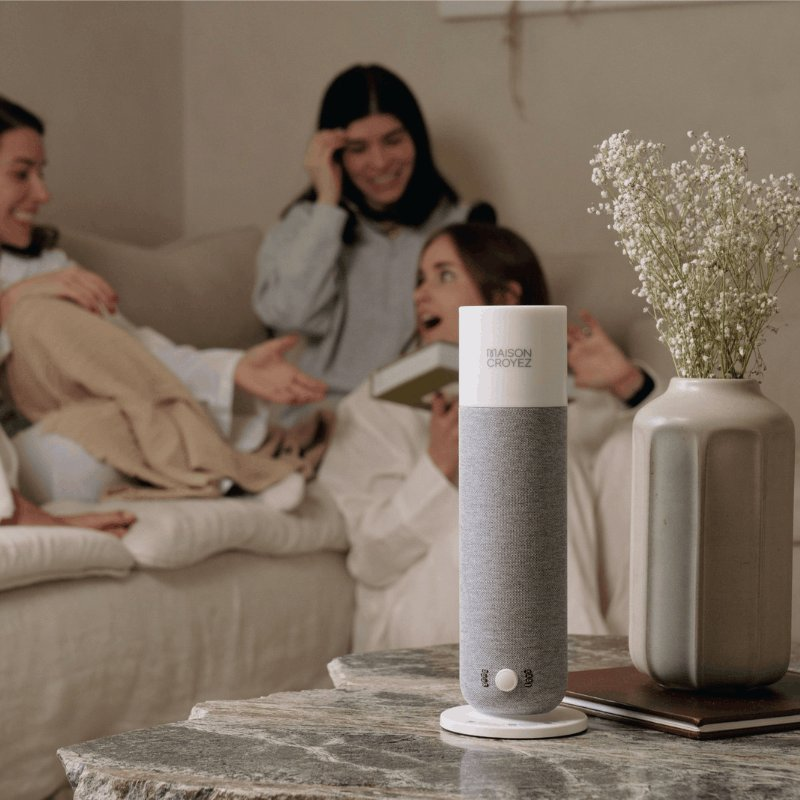
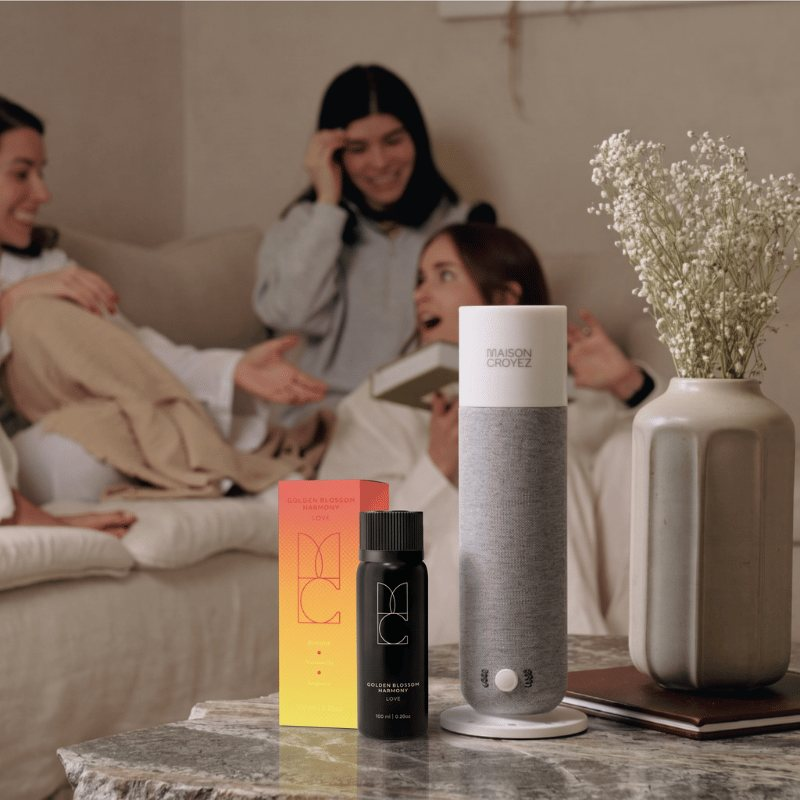
kits dk9v: new hero picture (diffuser + Golden Blossom bottle), check-list left padding that survives the ul reset
Owner's new main image (800 px JPEG + 720 px WebP poster). The how-it-works list's
left padding now uses !important because the page's own #root ul reset was zeroing it
on the live page.

Claude-Session: https://claude.ai/code/session_01Qt6jwbZYcUd6pzyfawb3Bj

Changed region(s): [[0.3438, 0.5938, 0.6562, 1.0], [0.75, 0.1875, 0.9375, 0.4688], [0.75, 0.1875, 0.7812, 0.2188]]

diff --git a/lp-factory/pages/diffuser-kits/mc-dk.css b/lp-factory/pages/diffuser-kits/mc-dk.css
@@ -1712,7 +1712,7 @@ h1 em{background:none;-webkit-background-clip:initial;background-clip:initial;co
 #root .tier.t9c3 .t9s-total small{font-family:'Outfit',sans-serif;font-weight:600;font-size:.58rem;letter-spacing:.06em;text-transform:uppercase;color:#5C4F46}
 #root .tier.t9c3 .t9s-total b{font-family:'Outfit',sans-serif;font-weight:800;font-size:1rem;color:#141414}
 @media (min-width:700px){#root .tier.t9c3 .t9s-each{font-size:.74rem}#root .tier.t9c3 .t9s-gift{font-size:.86rem}#root .tier.t9c3 .t9s-total b{font-size:1.15rem}#root .tier.t9c3 .t9s-total small{font-size:.62rem}}
-#root .t9s-how{list-style:none;margin:0 0 10px;padding:10px 14px 10px 18px;background:#FAF7F3;border:1px solid #EFE8E0;border-radius:12px;font-family:'Outfit',sans-serif;font-size:.74rem;line-height:1.35;color:#2A221E;display:grid;gap:5px}
+#root .t9s-how{list-style:none;margin:0 0 10px;padding:10px 14px 10px 20px;padding-left:20px !important;background:#FAF7F3;border:1px solid #EFE8E0;border-radius:12px;font-family:'Outfit',sans-serif;font-size:.74rem;line-height:1.35;color:#2A221E;display:grid;gap:5px}
 #root .t9s-how li{position:relative;padding-left:22px;margin:0} /* dk9t (owner): more room on the left of the green checks */
 #root .t9s-how li::before{content:"\2713";position:absolute;left:0;top:0;color:#1E7A46;font-weight:800}
-@media (min-width:700px){#root .t9s-how{font-size:.84rem;padding:12px 16px 12px 20px}}
+@media (min-width:700px){#root .t9s-how{font-size:.84rem;padding:12px 16px 12px 22px;padding-left:22px !important}}

diff --git a/lp-factory/pages/diffuser-kits/variants/dk9s-step1-scents/patch.py b/lp-factory/pages/diffuser-kits/variants/dk9s-step1-scents/patch.py
@@ -54,10 +54,10 @@ css += '''
 #root .tier.t9c3 .t9s-total small{font-family:'Outfit',sans-serif;font-weight:600;font-size:.58rem;letter-spacing:.06em;text-transform:uppercase;color:#5C4F46}
 #root .tier.t9c3 .t9s-total b{font-family:'Outfit',sans-serif;font-weight:800;font-size:1rem;color:#141414}
 @media (min-width:700px){#root .tier.t9c3 .t9s-each{font-size:.74rem}#root .tier.t9c3 .t9s-gift{font-size:.86rem}#root .tier.t9c3 .t9s-total b{font-size:1.15rem}#root .tier.t9c3 .t9s-total small{font-size:.62rem}}
-#root .t9s-how{list-style:none;margin:0 0 10px;padding:10px 14px 10px 18px;background:#FAF7F3;border:1px solid #EFE8E0;border-radius:12px;font-family:'Outfit',sans-serif;font-size:.74rem;line-height:1.35;color:#2A221E;display:grid;gap:5px}
+#root .t9s-how{list-style:none;margin:0 0 10px;padding:10px 14px 10px 20px;padding-left:20px !important;background:#FAF7F3;border:1px solid #EFE8E0;border-radius:12px;font-family:'Outfit',sans-serif;font-size:.74rem;line-height:1.35;color:#2A221E;display:grid;gap:5px}
 #root .t9s-how li{position:relative;padding-left:22px;margin:0} /* dk9t (owner): more room on the left of the green checks */
 #root .t9s-how li::before{content:"\\2713";position:absolute;left:0;top:0;color:#1E7A46;font-weight:800}
-@media (min-width:700px){#root .t9s-how{font-size:.84rem;padding:12px 16px 12px 20px}}
+@media (min-width:700px){#root .t9s-how{font-size:.84rem;padding:12px 16px 12px 22px;padding-left:22px !important}}
 '''
 open(out + '/mc-dk-app.js', 'w', encoding='utf-8').write(app)
 open(out + '/mc-dk.css', 'w', encoding='utf-8').write(css)
